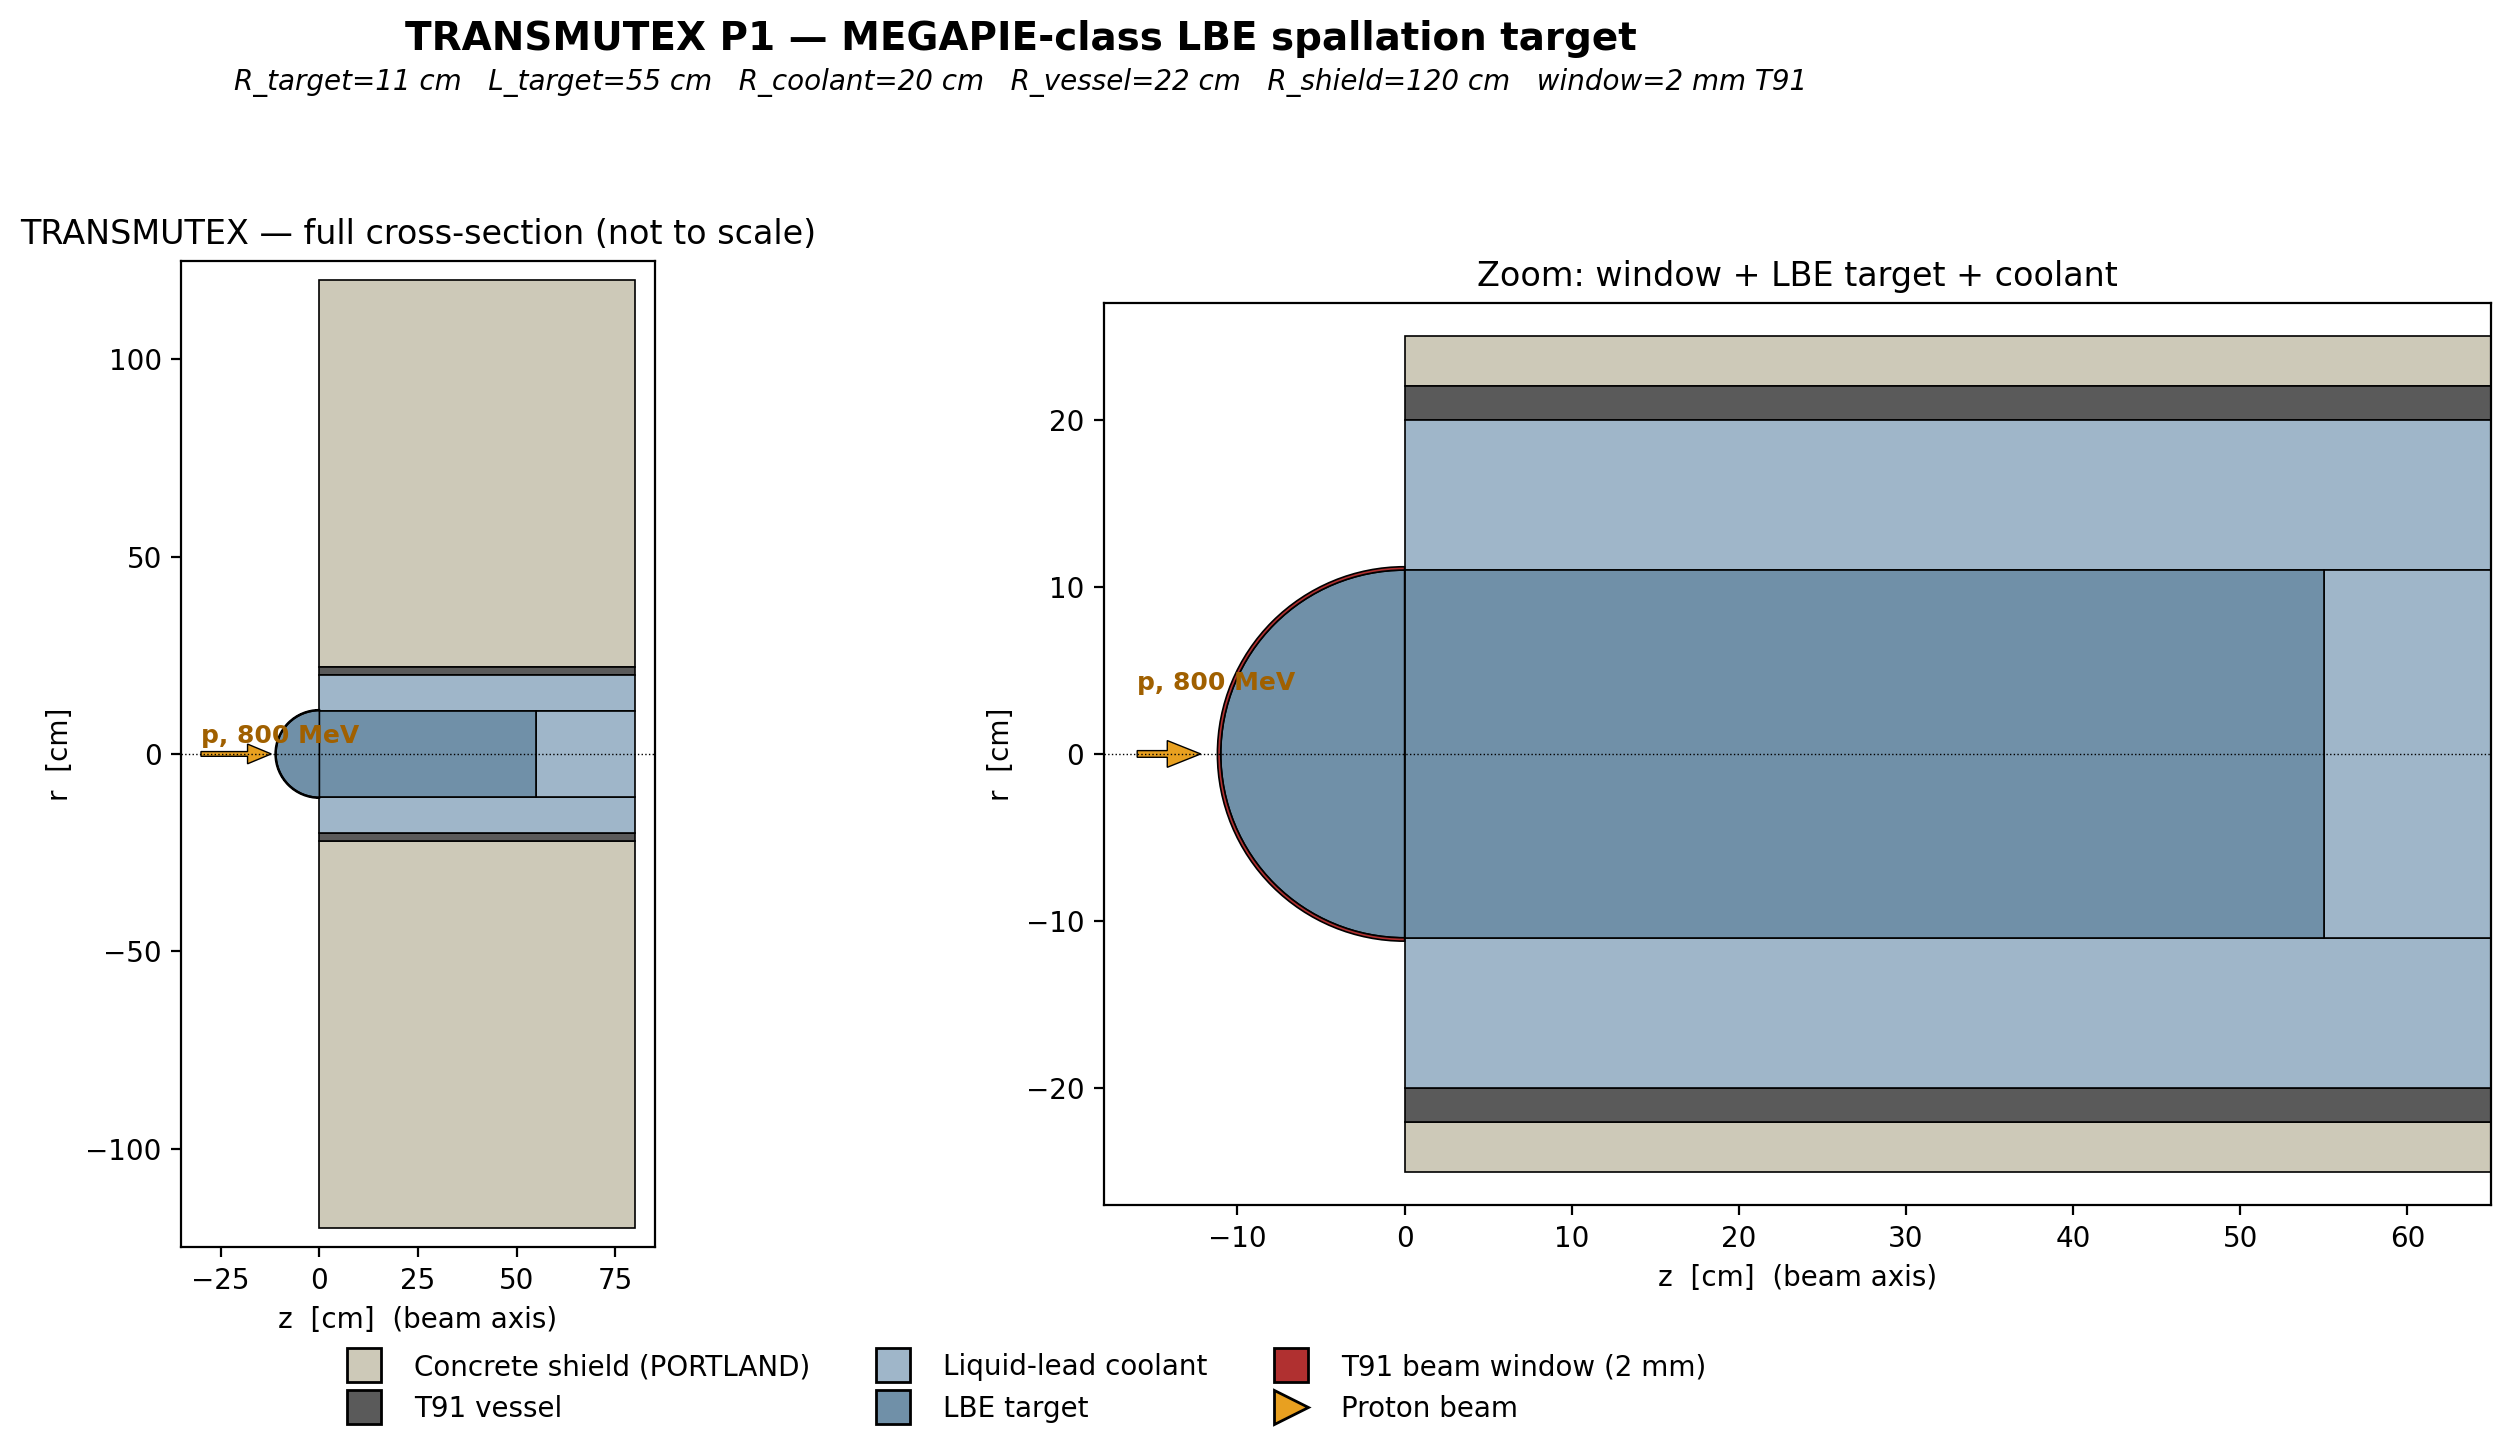
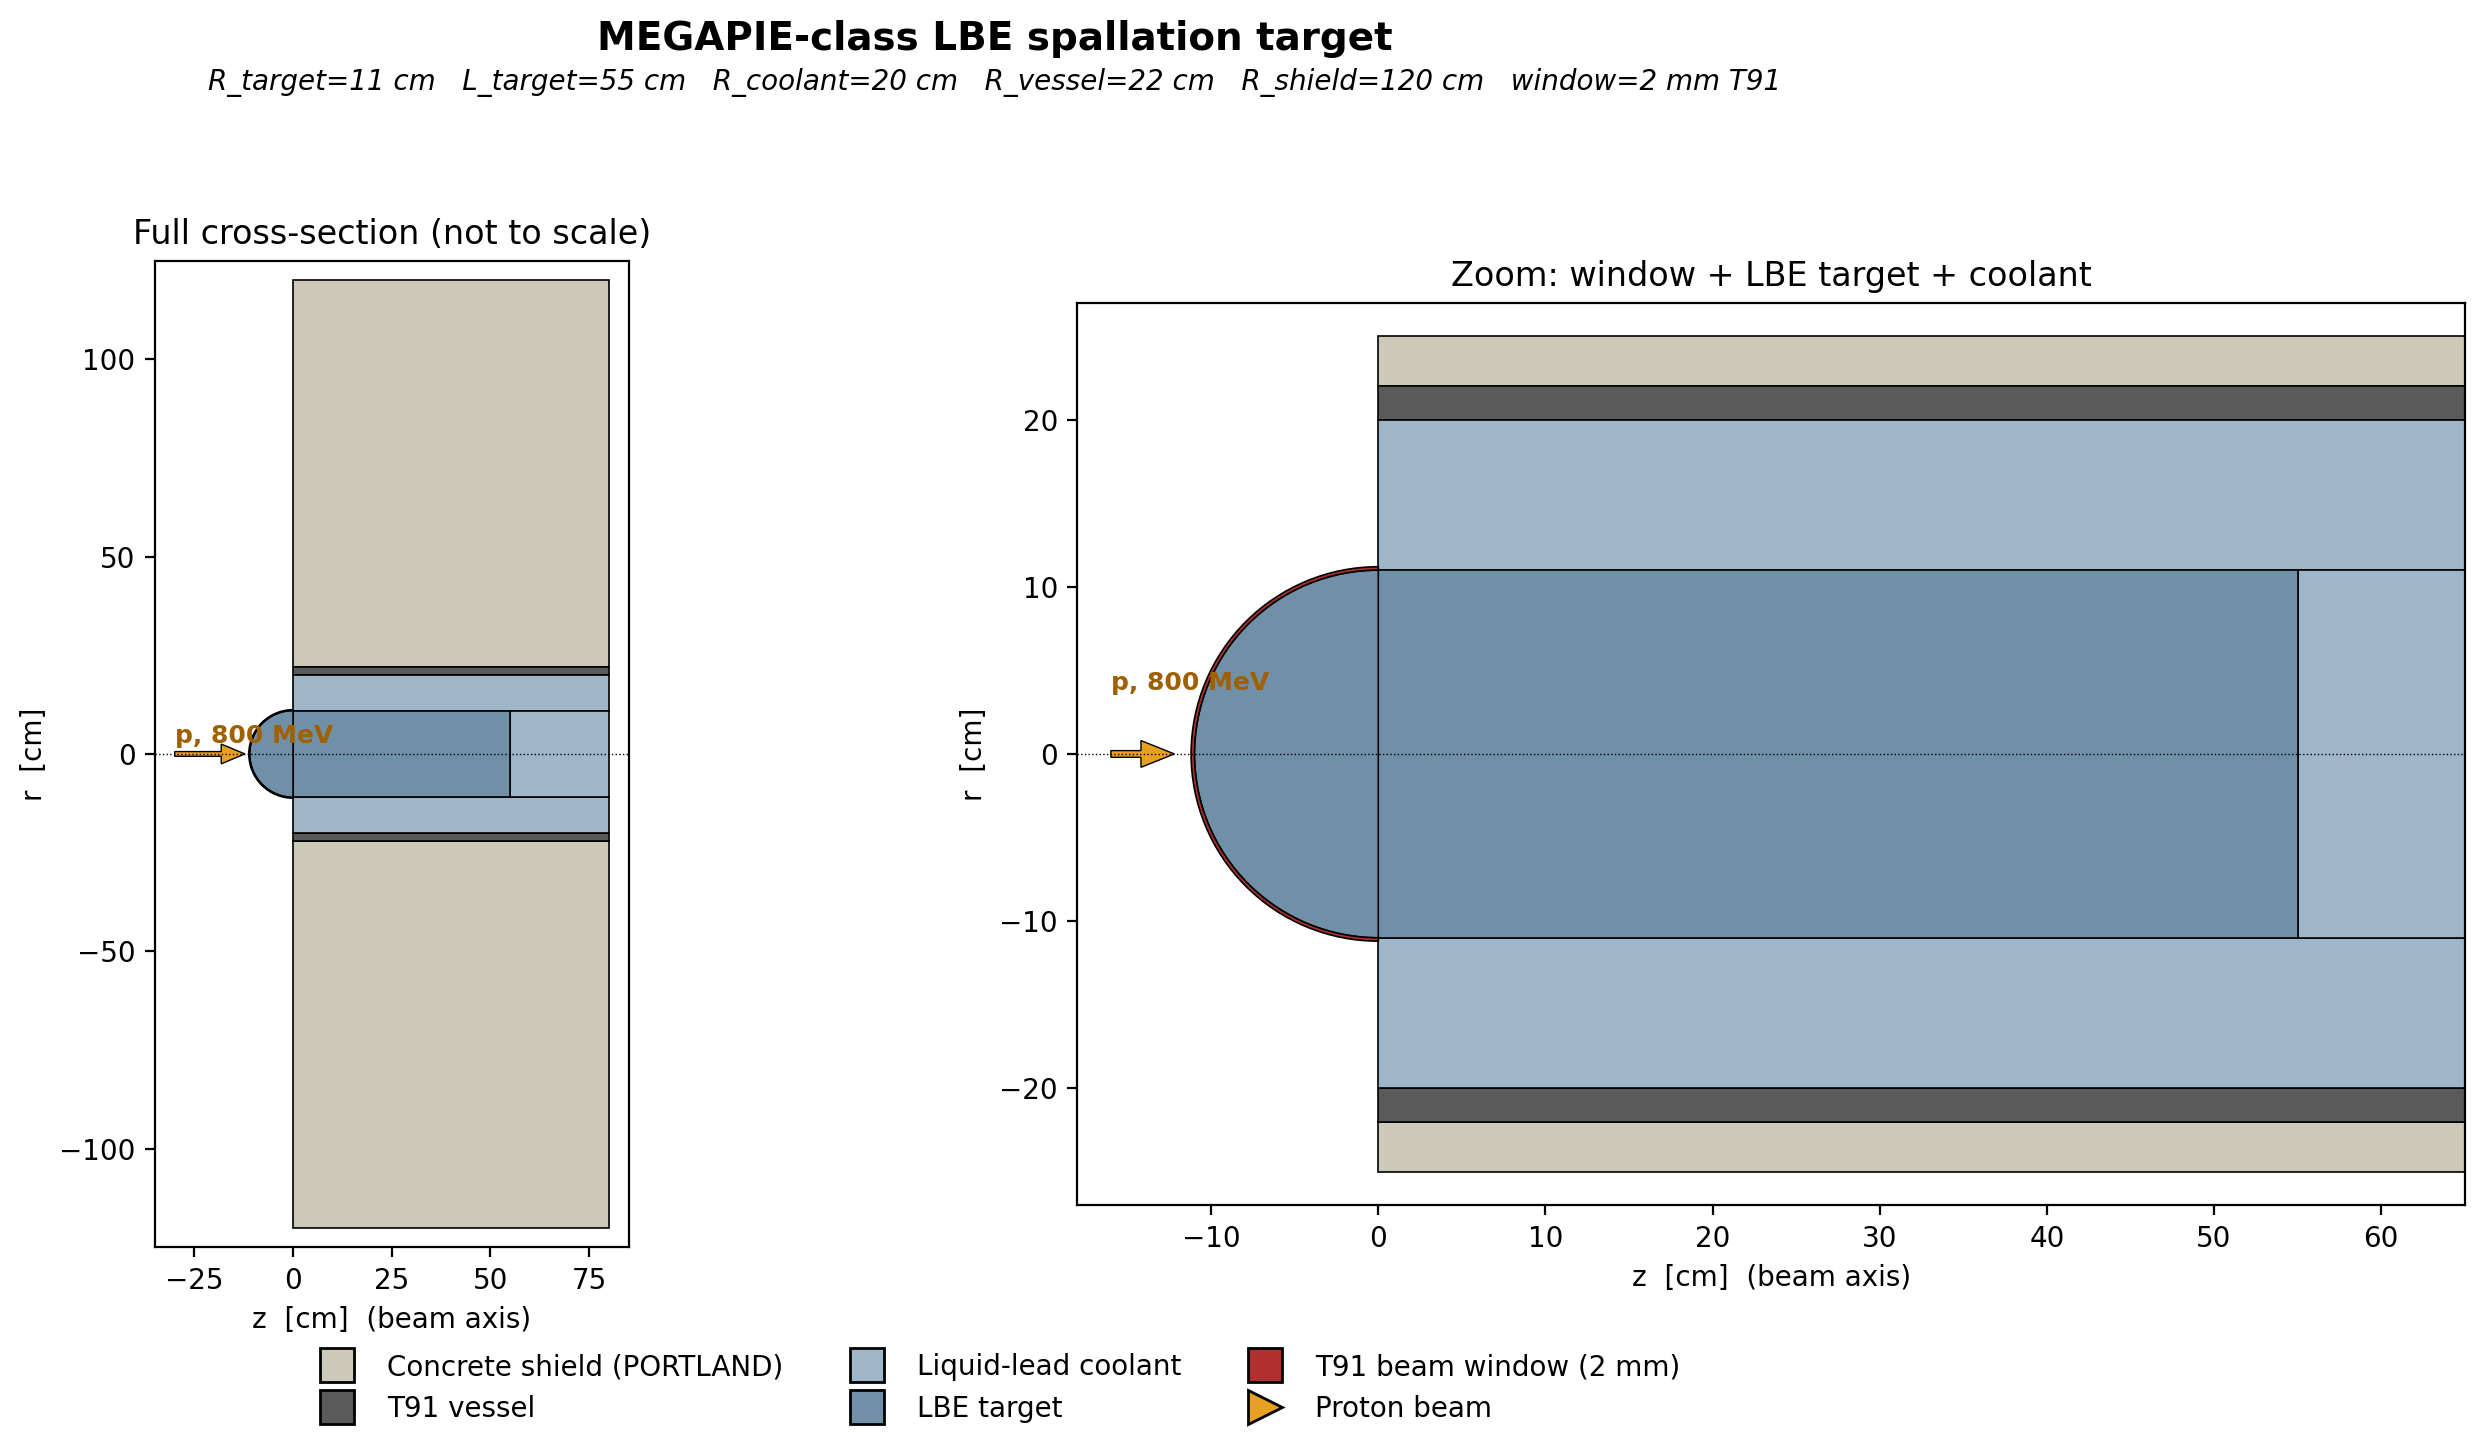
no_transmutex_title

diff --git a/js/i18n.js b/js/i18n.js
@@ -72,25 +72,6 @@ window.I18N = {
     },
     projects: {
       title: "Some things I've built",
-      lede: "A selection of FLUKA, PyECLOUD and multiphysics projects. Each card will be expanded with geometry, source term, scoring strategy and key results.",
-      featured: "Featured Project",
-      f1_title: "Project title - to be filled",
-      f1_desc: "Short description of the geometry, particle source, scoring strategy and the question being answered. Replace with your real FLUKA project once you've picked which to feature.",
-      f2_title: "Project title - to be filled",
-      f2_desc: "Short description of the geometry, particle source, scoring strategy and the question being answered. Add results, plots or DOIs once published.",
-      other_title: "Other noteworthy projects",
-      o1_title: "FLUKA - Title",
-      o1_desc: "Short description: geometry, source, scoring, key result.",
-      o2_title: "FLUKA - Title",
-      o2_desc: "Short description: geometry, source, scoring, key result.",
-      o3_title: "COMSOL - Title",
-      o3_desc: "Multiphysics simulation: physics coupled, mesh strategy, validation.",
-      o4_title: "PyECLOUD - Title",
-      o4_desc: "Electron cloud build-up simulation, parameter scan, comparison to data.",
-      o5_title: "Geant4 / MCNP - Title",
-      o5_desc: "Cross-code comparison, benchmark, dose deposition study.",
-      o6_title: "Data pipeline - 7000+ LHC fills",
-      o6_desc: "End-to-end automation: fetch, parse, validate, archive, query. Python & standardised schemas."
     },
     events: {
       title: "Events & training",
@@ -222,25 +203,6 @@ window.I18N = {
     },
     projects: {
       title: "Quelques projets que j'ai menés",
-      lede: "Une sélection de projets FLUKA, PyECLOUD et multiphysiques. Chaque carte sera enrichie avec la géométrie, le terme source, la stratégie de scoring et les résultats clés.",
-      featured: "Projet phare",
-      f1_title: "Titre du projet - à compléter",
-      f1_desc: "Brève description de la géométrie, de la source, de la stratégie de scoring et de la question traitée. À remplacer par ton vrai projet FLUKA une fois que tu auras choisi.",
-      f2_title: "Titre du projet - à compléter",
-      f2_desc: "Brève description de la géométrie, de la source, de la stratégie de scoring et de la question traitée. Ajoute résultats, plots ou DOIs une fois publiés.",
-      other_title: "Autres projets notables",
-      o1_title: "FLUKA - Titre",
-      o1_desc: "Brève description : géométrie, source, scoring, résultat clé.",
-      o2_title: "FLUKA - Titre",
-      o2_desc: "Brève description : géométrie, source, scoring, résultat clé.",
-      o3_title: "COMSOL - Titre",
-      o3_desc: "Simulation multiphysique : physiques couplées, stratégie de maillage, validation.",
-      o4_title: "PyECLOUD - Titre",
-      o4_desc: "Simulation de build-up de nuage d'électrons, scan paramétrique, comparaison aux données.",
-      o5_title: "Geant4 / MCNP - Titre",
-      o5_desc: "Comparaison inter-codes, benchmark, étude de dépôt de dose.",
-      o6_title: "Pipeline de données - 7000+ fills LHC",
-      o6_desc: "Automatisation complète : fetch, parsing, validation, archivage, requêtage. Python & schémas standardisés."
     },
     events: {
       title: "Événements & formations",

diff --git a/css/styles.css b/css/styles.css
@@ -2214,7 +2214,7 @@ svg {
   .featured__content {
     grid-column: 1 / -1;
     grid-row: 2;
-    padding: 2rem 0;
+    padding: 0 0 2rem;
     text-align: left;
   }
 

diff --git a/js/projects.js b/js/projects.js
@@ -53,7 +53,7 @@ window.renderProjects = function (lang) {
       return `
         <li class="featured__item${reverse}">
           <div class="featured__content">
-            <p class="featured__overline">${L === 'fr' ? 'Projet phare' : 'Featured Project'}</p>
+            <p class="featured__overline">${L === 'fr' ? 'Projets en Cours...' : 'Work in Progress...'}</p>
             <h3 class="featured__title">${escapeHtml(t.title)}</h3>
             <h3 class="featured__subtitle">${escapeHtml(t.subtitle)}</h3>
             <div class="featured__visual" aria-hidden="true">${p.svg || ''}</div>

diff --git a/projects.html b/projects.html
@@ -159,8 +159,6 @@
             <span class="section__num"></span><span data-i18n="projects.title"></span>
           </h2>
 
-          <p class="section__lede" data-i18n="projects.lede"></p>
-
           <!-- Featured Projects (auto-rendered from js/projects.js) -->
           <ul id="featured-list" class="featured" aria-label="Featured projects"></ul>
 